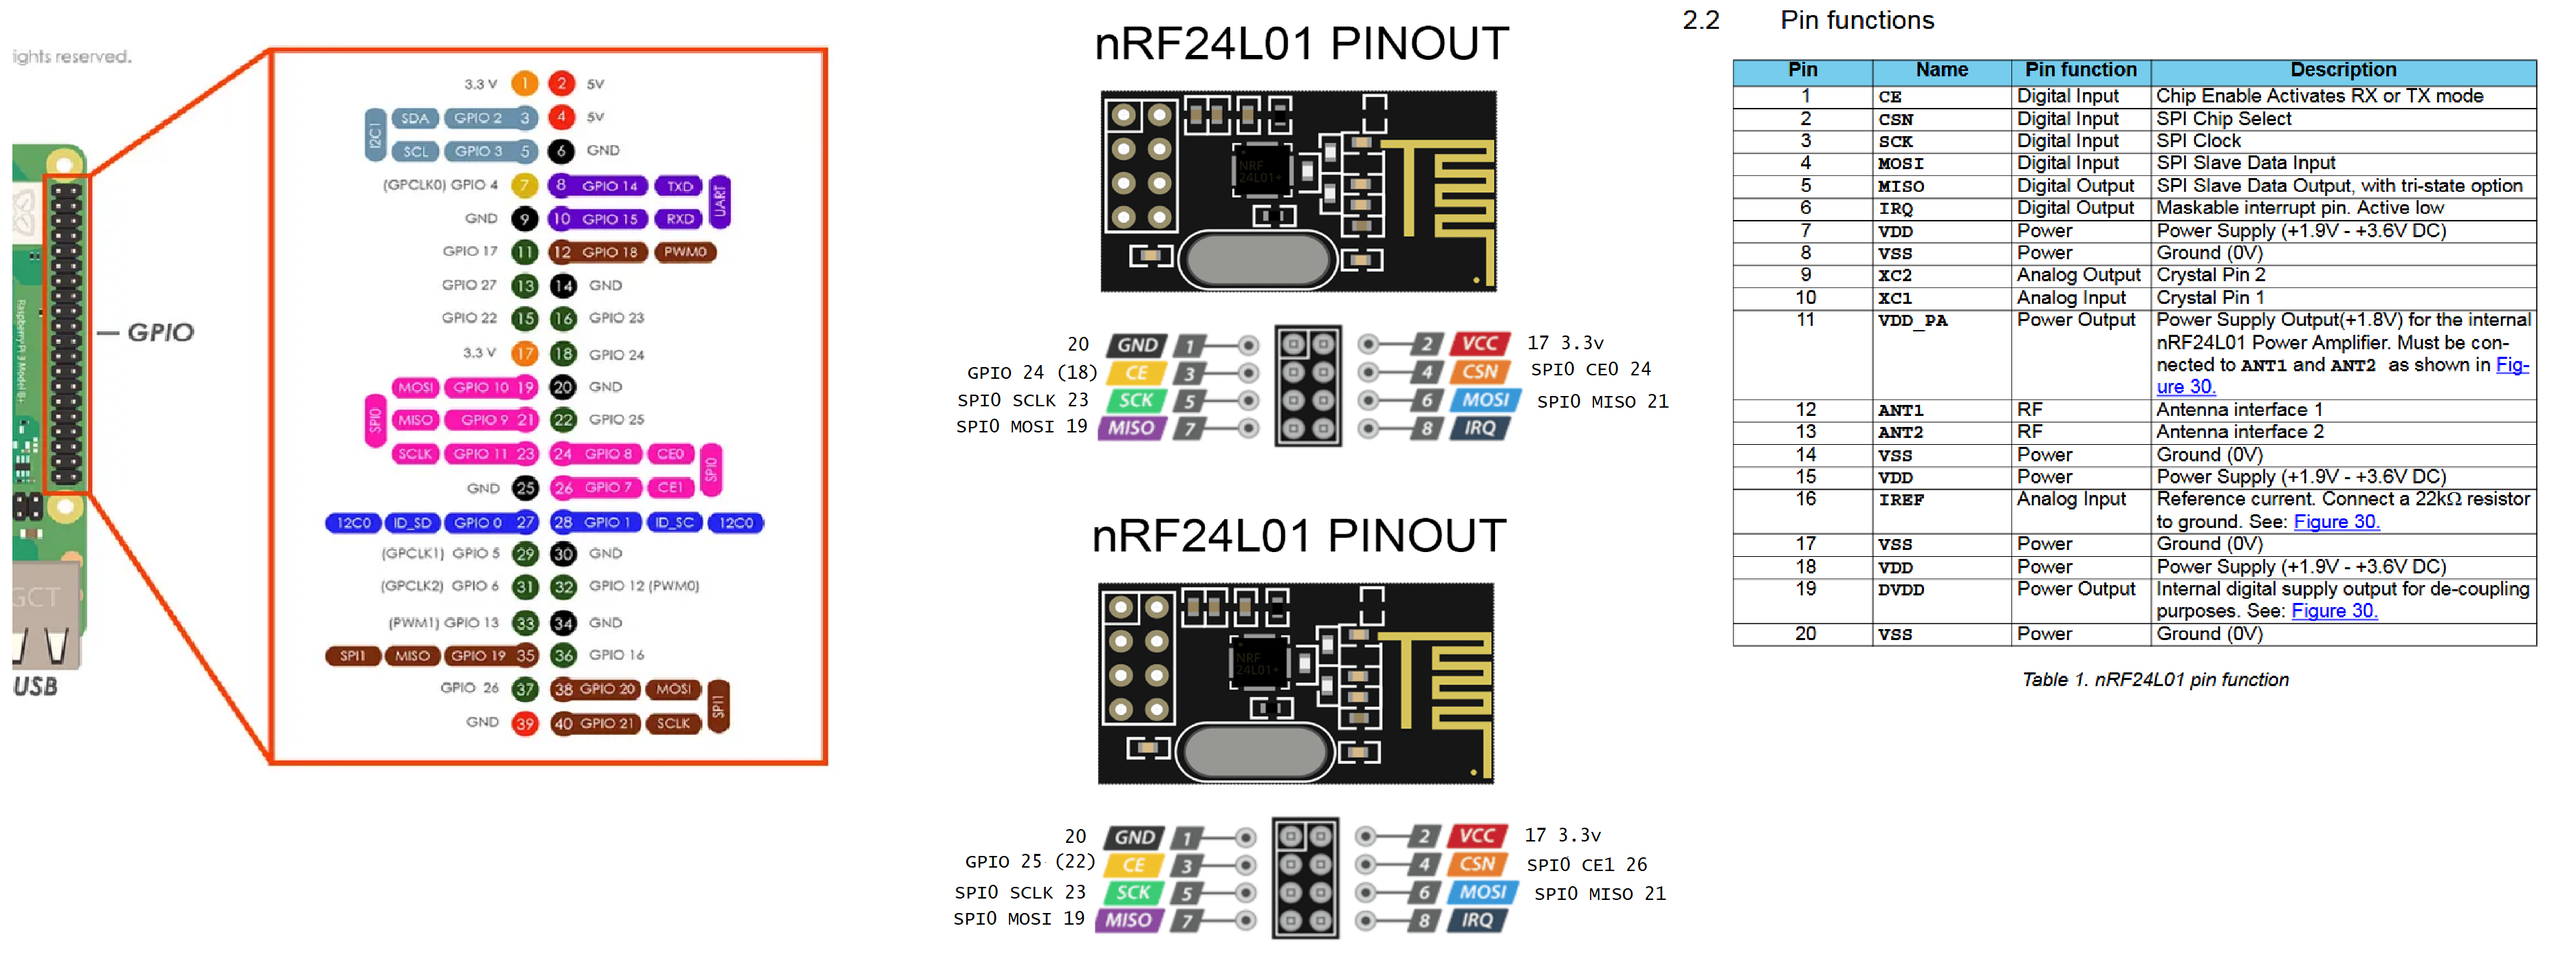
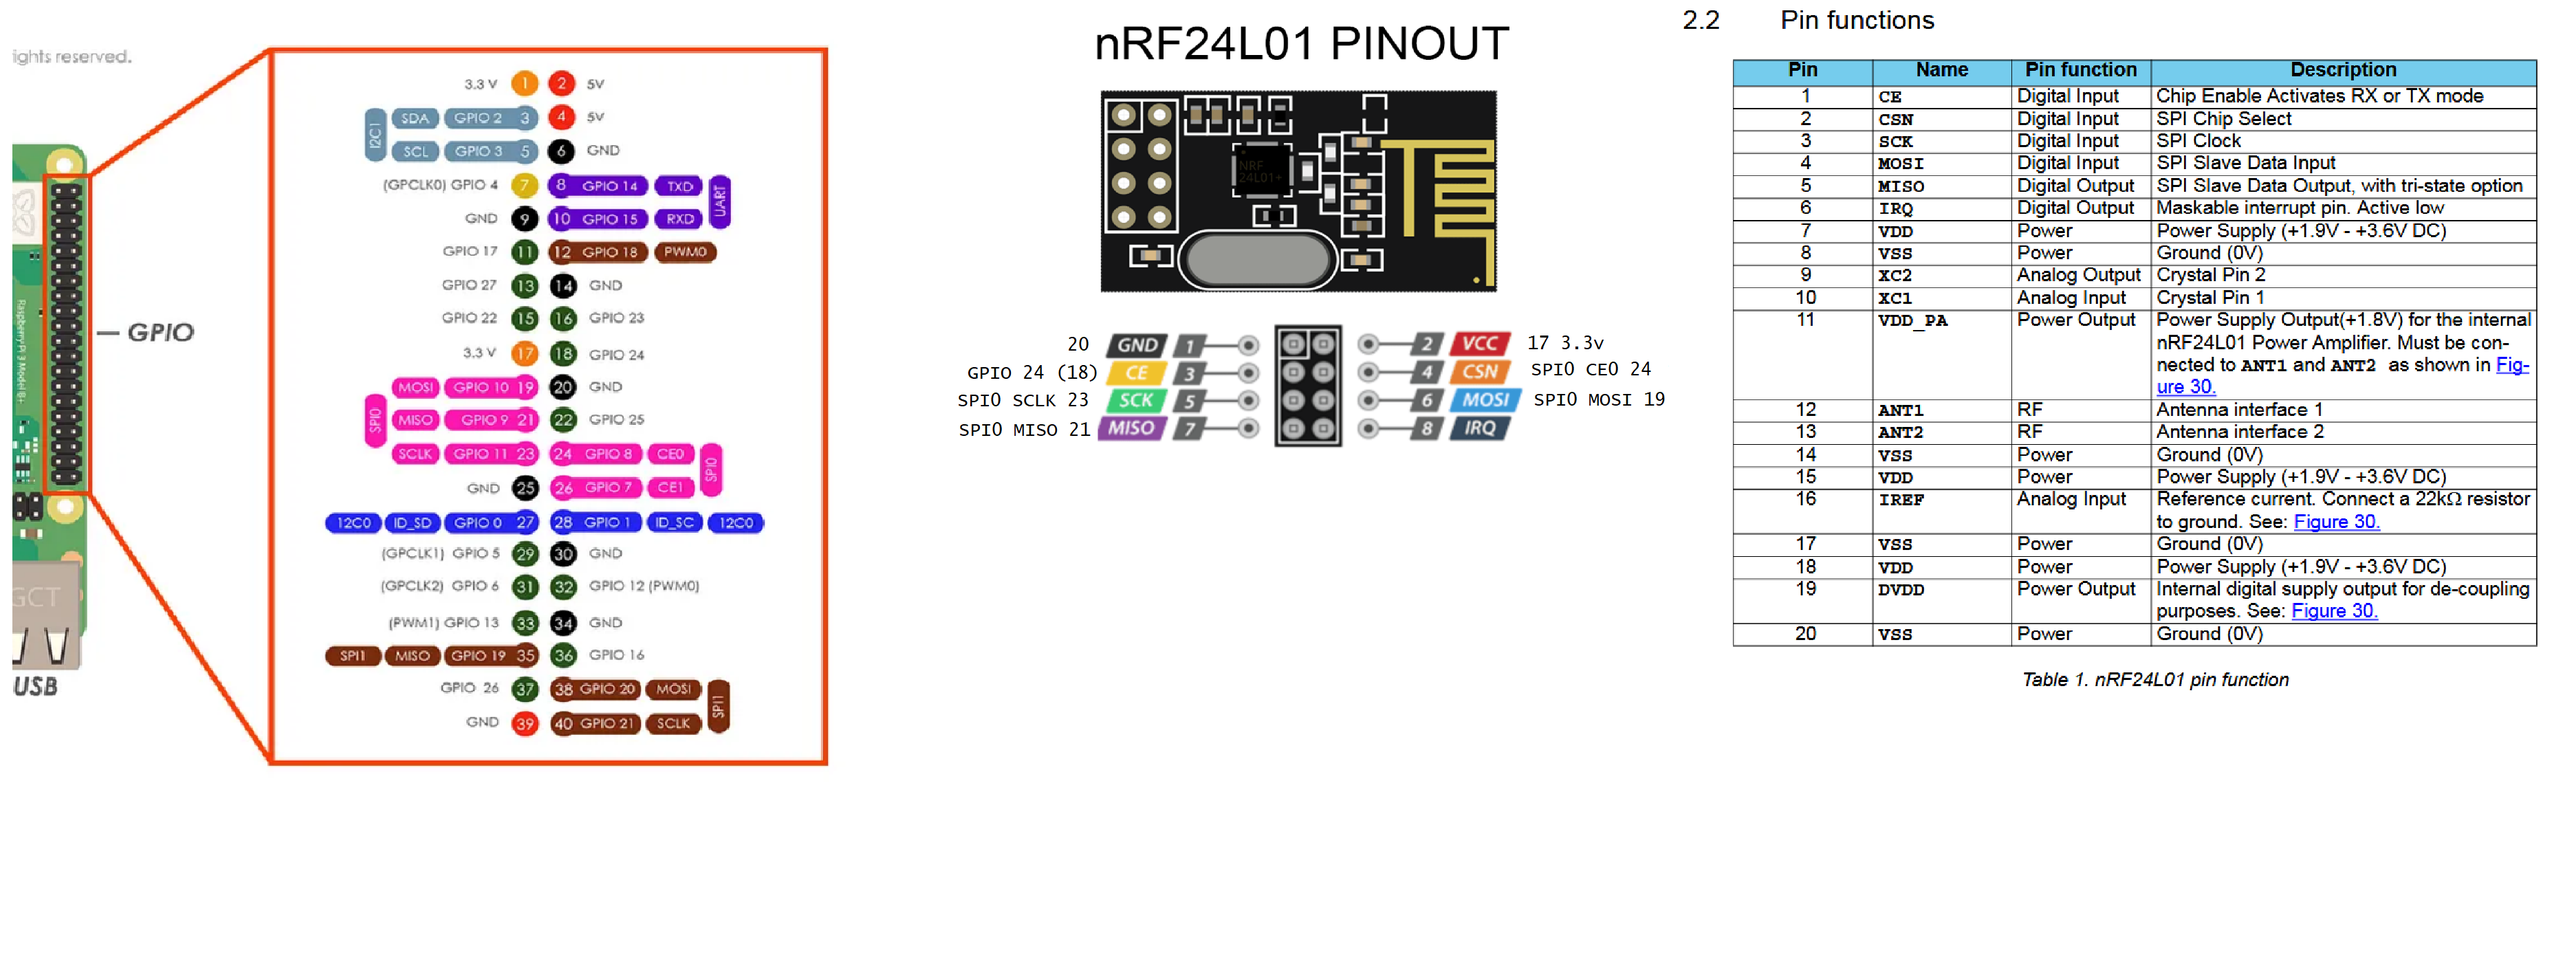
created an nrf24 test program to check basic functionality, edited pinout

diff --git a/EXAMPLES/test.c b/EXAMPLES/test.c
@@ -1,0 +1,119 @@
+/**
+ * NRF24L01 program to test a NRF24 transceiver,
+ *  register 0x2 is set to 1
+ *  registers 0x0 - 0x17 are read and should all be non-zero.
+ * 
+ * gcc -o test test.c -lgpiod
+ * ./test
+ */
+
+#include <gpiod.h>
+#include <stdio.h>
+#include <stdlib.h>
+#include <unistd.h>
+#include <stdint.h>
+#include <string.h>
+#include <fcntl.h>
+#include <sys/ioctl.h>
+#include <linux/spi/spidev.h>
+
+#define GPIO_CHIP_NAME "gpiochip0"
+#define GPIO_OFFSET_CE 24 // Chip Enable Activates RX or TX mode
+
+#define SPI_DEVICE "/dev/spidev0.0"
+#define SPI_HZ 4000000
+
+#define R_REGISTER 0x00
+#define W_REGISTER 0x20
+
+void _spi_transfer(int fd, uint8_t* tx_buffer, uint8_t* rx_buffer, int size) {
+    struct spi_ioc_transfer tr = {
+        .tx_buf = (unsigned long)tx_buffer,
+        .rx_buf = (unsigned long)rx_buffer,
+        .len = size,
+        .speed_hz = SPI_HZ,
+        .delay_usecs = 0,
+        .bits_per_word = 8,
+        .cs_change = 0,
+    };
+    int ret = ioctl(fd, SPI_IOC_MESSAGE(1), &tr);
+    if (ret < 1) {
+        perror("Failed to send SPI message");
+        close(fd);
+        exit(EXIT_FAILURE);
+    }
+}
+
+void _gpio_high(struct gpiod_line* line) {
+    gpiod_line_set_value(line, 1);
+}
+
+void _gpio_low(struct gpiod_line* line) {
+    gpiod_line_set_value(line, 0);
+}
+
+void init_gpio(struct gpiod_chip** chip, struct gpiod_line** ce) {
+    *chip = gpiod_chip_open_by_name(GPIO_CHIP_NAME);
+    if (!*chip) {
+        perror("gpiod_chip_open_by_name");
+        exit(EXIT_FAILURE);
+    }
+    *ce = gpiod_chip_get_line(*chip, GPIO_OFFSET_CE);
+    if (!*ce) {
+        perror("gpiod_chip_get_line");
+        gpiod_chip_close(*chip);
+        exit(EXIT_FAILURE);
+    }
+    if (gpiod_line_request_output(*ce, "CE", 0) < 0) {
+        perror("gpiod_line_request_output");
+        gpiod_chip_close(*chip);
+        exit(EXIT_FAILURE);
+    }
+}
+
+void init_spi(int* fd) {
+    *fd = open(SPI_DEVICE, O_RDWR);
+    if (*fd < 0) {
+        perror("Failed to open SPI device");
+        exit(EXIT_FAILURE);
+    }
+}
+
+void test(int fd, struct gpiod_line* ce) {
+    printf("\ntest\n");
+    uint8_t tx_buffer[2], rx_buffer[2];
+
+    tx_buffer[0] = W_REGISTER | 0x2;
+    tx_buffer[1] = 1;// only enable ERX_P0 (data pipe 1)
+    _spi_transfer(fd, tx_buffer, rx_buffer, 2);
+
+
+    for(int i = 0x00; i <= 0x17; i++){
+        tx_buffer[0] = R_REGISTER | i;
+        tx_buffer[1] = 0xff;// no op
+        _spi_transfer(fd, tx_buffer, rx_buffer, 2);
+        printf("   reg_addr: 0x%x, status: %d, reg: %d\n", i, rx_buffer[0], rx_buffer[1]);
+        usleep(100000);
+    }
+    printf("\n");
+}
+
+int main() {
+    struct gpiod_chip* chip;
+    struct gpiod_line* ce;
+    init_gpio(&chip, &ce);
+    int fd; // SPI file descriptor
+    init_spi(&fd);
+    _gpio_high(ce);// Activate 
+    while (1) {
+        sleep(1);
+        test(fd, ce);
+        break;
+    }
+    if (ce)
+        gpiod_line_release(ce);
+    if (chip)
+        gpiod_chip_close(chip);
+    close(fd);
+    return EXIT_SUCCESS;
+}
